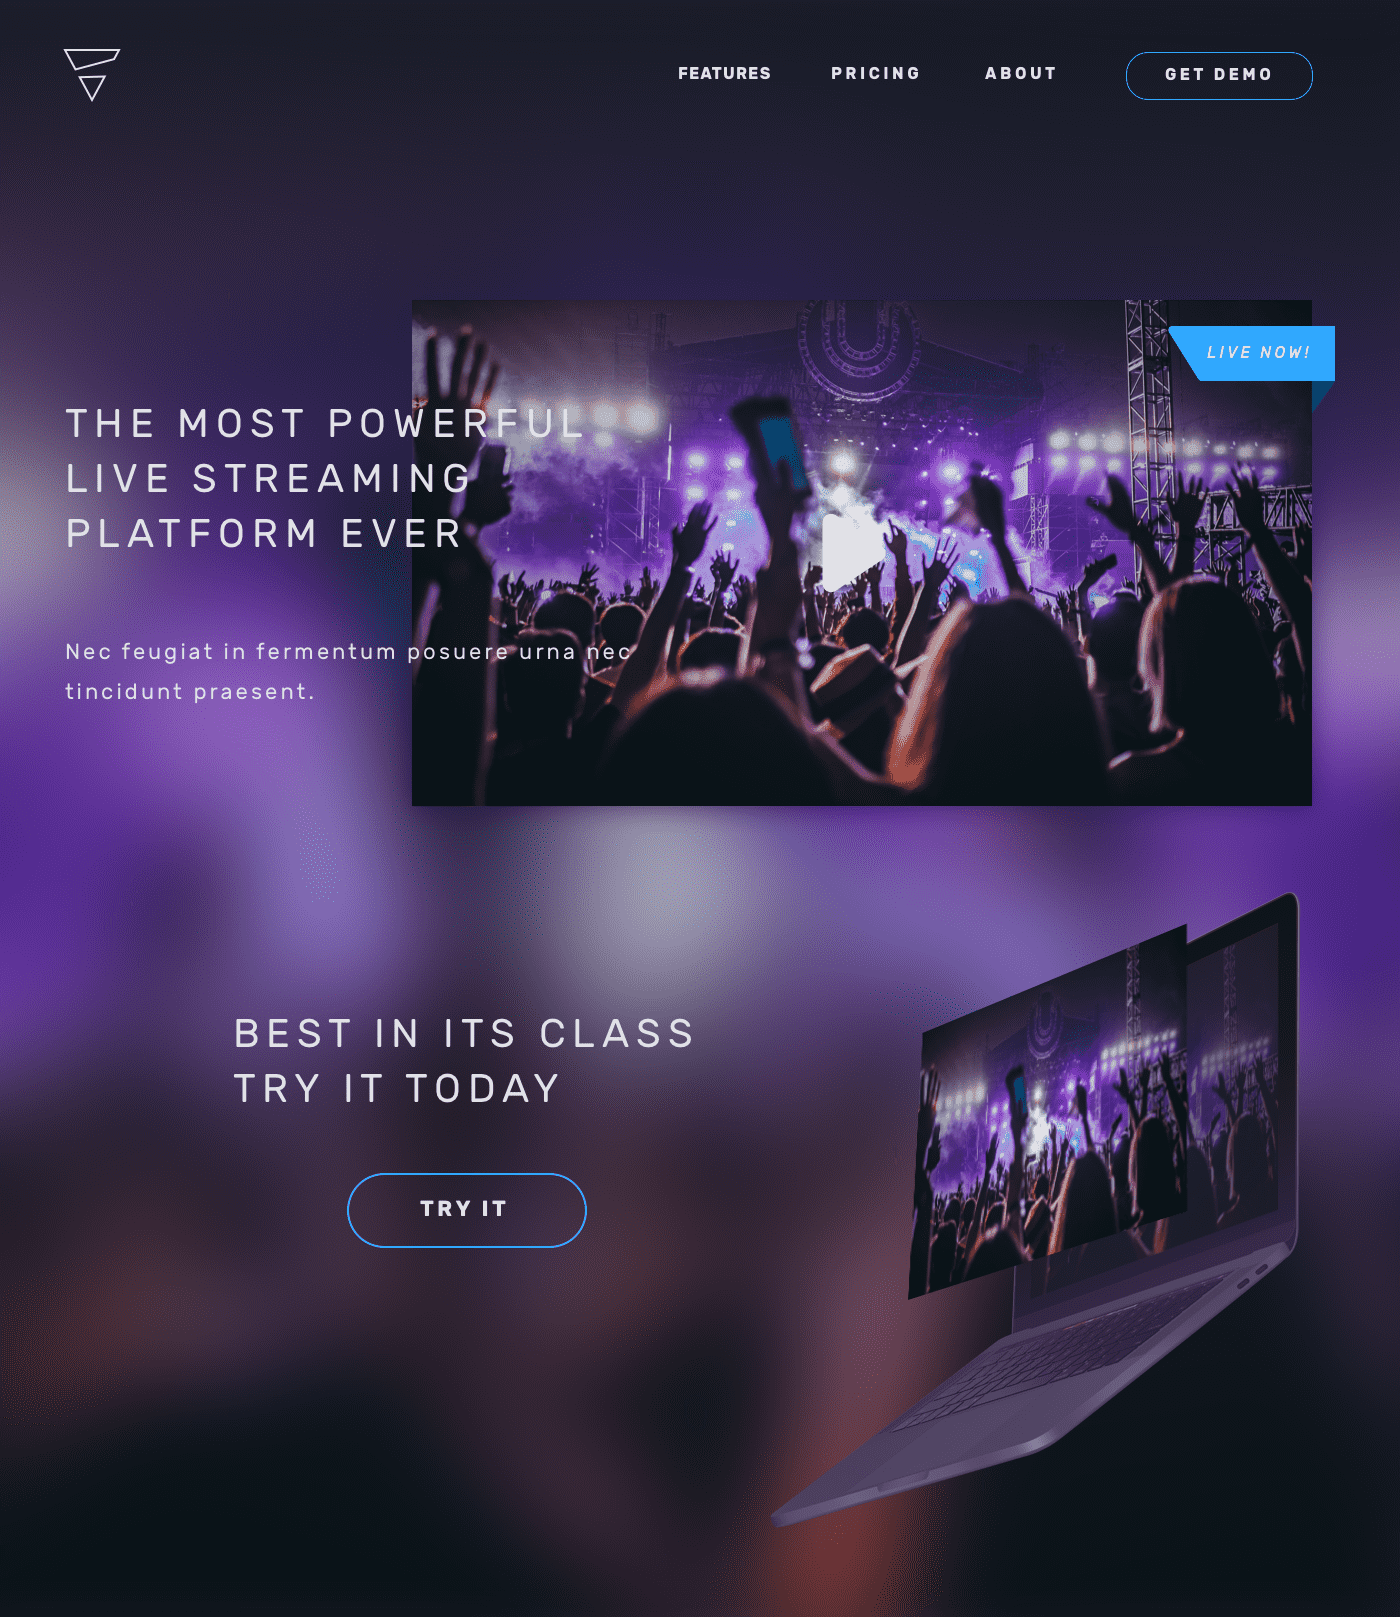
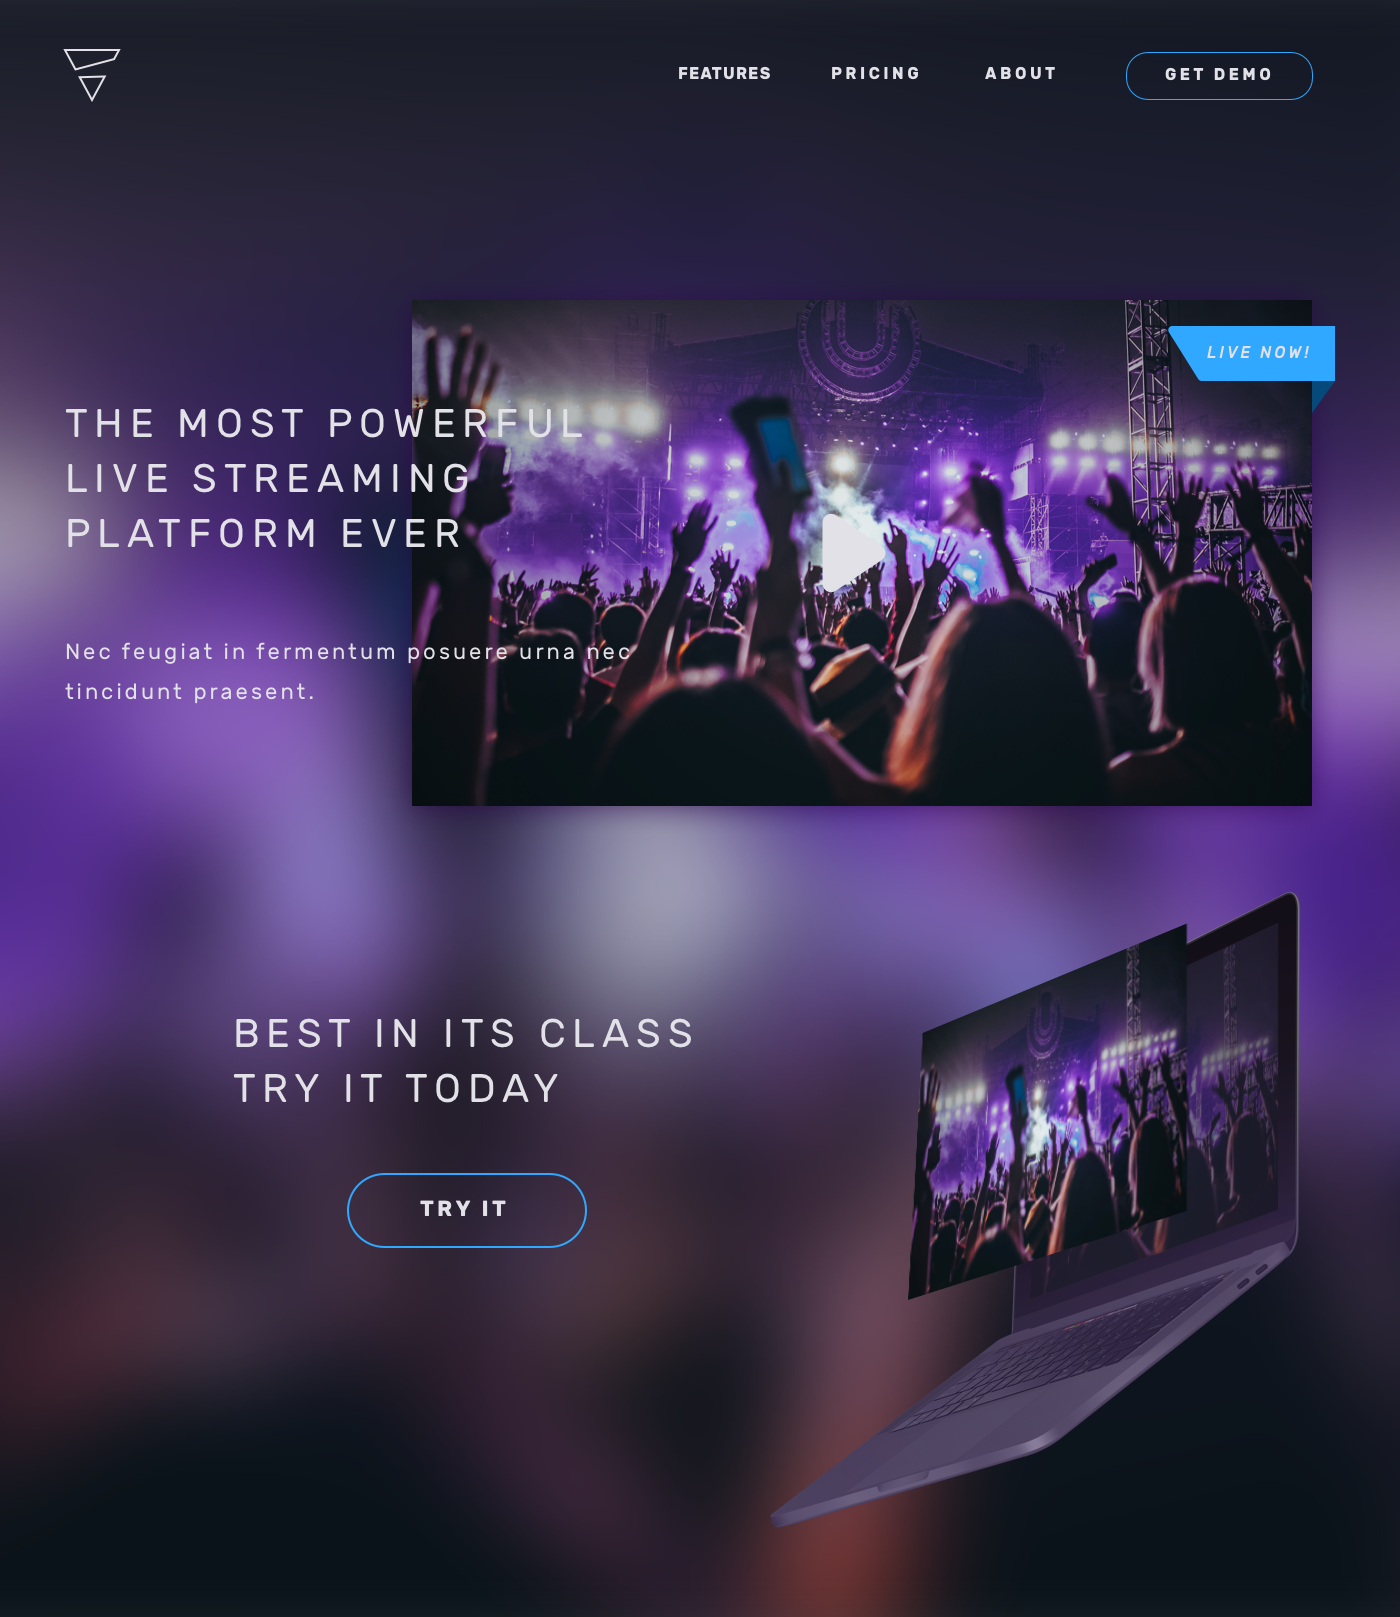
added responsive images, added media queries, and changed ocean parallax img to books

diff --git a/public/css/styles.css b/public/css/styles.css
@@ -1,1 +1,1 @@
-body{font-family:'Roboto', sans-serif;color:white;font-size:100%}.parallax-img{background-position:center;background-size:cover;background-attachment:fixed;background-repeat:no-repeat}nav{position:absolute;z-index:1;padding:1em}nav img{width:7em;vertical-align:middle}nav a{float:right;font-size:1.3em;margin-right:1.2vw;padding:0 .5vw;text-transform:uppercase}nav .animation{color:#fff;position:relative}nav .animation:before{content:"";position:absolute;width:100%;height:2px;bottom:10px;left:0;background-color:#fff;visibility:hidden;-webkit-transform:scaleX(0);transform:scaleX(0);-webkit-transition:all 0.275s ease-in-out 0s;transition:all 0.275s ease-in-out 0s}nav .animation:hover:before{visibility:visible;-webkit-transform:scaleX(1);transform:scaleX(1)}header.para1{background-image:url(../images/roads.jpg);height:100vh;width:100%;opacity:.95}header.para1 div.header-title{display:-webkit-box;display:-ms-flexbox;display:flex;-webkit-box-orient:vertical;-webkit-box-direction:normal;-ms-flex-direction:column;flex-direction:column;-webkit-box-pack:center;-ms-flex-pack:center;justify-content:center;-webkit-box-align:center;-ms-flex-align:center;align-items:center;padding-top:40vh;text-transform:uppercase}header.para1 div.header-title h3{font-size:1.2em;margin:0;letter-spacing:.5em;font-weight:bold}header.para1 div.header-title h1{font-size:4em;margin:0;letter-spacing:.95em;font-weight:bold}header.para1 div.header-title div.links{display:-webkit-box;display:-ms-flexbox;display:flex;font-size:3.5em;margin-top:.2em}header.para1 div.header-title div.links a{color:white;margin:0 .3em}header.para1 div.arrow{position:relative;font-size:2.8em;color:white;text-align:center;top:30vh;right:.4em}header.para1 div.arrow svg{position:absolute;-webkit-animation:bouncing 1.2s infinite ease-in-out;animation:bouncing 1.2s infinite ease-in-out}@-webkit-keyframes bouncing{0%{bottom:0}50%{bottom:20px}100%{bottom:0}}@keyframes bouncing{0%{bottom:0}50%{bottom:20px}100%{bottom:0}}main section#about{background-color:#fffaf2}main section#about p.flow-text{margin:0;font-size:1.4em;padding:3em 10em;text-align:center;color:#343144;letter-spacing:.21em;line-height:1.85em;text-transform:uppercase}main div.para2{background-image:url("../images/ocean.jpg");height:80vh}main section.website-designs{background-color:#82CFC7;display:-webkit-box;display:-ms-flexbox;display:flex;-ms-flex-wrap:wrap;flex-wrap:wrap;-ms-flex-pack:distribute;justify-content:space-around;-ms-flex-preferred-size:100%;flex-basis:100%}main section.website-designs h2.title{width:100%;text-align:center;-ms-flex-preferred-size:100%;flex-basis:100%;margin:0;padding-top:.2em;padding-bottom:.2em;font-size:3.8em}main section.website-designs div.design{margin:8vh 0}section.live-websites{background-color:#b8de8c;display:-webkit-box;display:-ms-flexbox;display:flex;-ms-flex-wrap:wrap;flex-wrap:wrap;-ms-flex-pack:distribute;justify-content:space-around;-ms-flex-preferred-size:100%;flex-basis:100%}section.live-websites h2.title{width:100%;text-align:center;-ms-flex-preferred-size:100%;flex-basis:100%;margin:0;padding-top:.2em;padding-bottom:.2em;font-size:3.8em}section.live-websites div.website{margin:8vh 0;text-align:center}section.live-websites div.website a{text-decoration:none;color:white;display:block;font-size:2em;border-bottom:4px solid white;border-left:4px solid white;border-right:4px solid white;padding:.2em}section.live-websites div.website a:hover{background-color:rgba(0,0,0,0.1)}section#contact{background-image:url("../images/computer.jpg");height:90vh;text-align:center}section#contact div.row{width:60vw;padding:10vh 0 10vh 0}section#contact input{color:white}section#contact textarea{color:white}section#contact .input-field input[type=text]:focus+label,section#contact .input-field input[type=email]:focus+label,section#contact .input-field textarea:focus+label{color:white}section#contact .input-field input[type=text]:focus,section#contact .input-field input[type=email]:focus,section#contact .input-field textarea:focus{border-bottom:1px solid white;-webkit-box-shadow:0 1px 0 0 white;box-shadow:0 1px 0 0 white}section#contact button{background-color:#4ba04e}section#contact button svg{font-size:1em;margin:0}section#contact h2{font-size:2.5em}section#contact a{color:white}section#contact svg{font-size:3em;margin:0 1vw}footer{background-color:#424242;color:rgba(255,255,255,0.8);padding:1.5em;font-size:.8em;text-align:center;display:block}@media only screen and (max-width: 992px){body{font-size:100%}body .parallax-img{background-position:center;background-size:cover;background-attachment:fixed;background-repeat:no-repeat}body div.sidenav-overlay{position:static}body nav{text-align:center}body nav a.sidenav-trigger{position:absolute;left:4vw;font-size:2em}body nav img{font-size:1em}body ul.sidenav li>div.user-view{height:20vh;position:relative}body ul.sidenav li>div.user-view img{width:100%}body ul.sidenav li>div.user-view div.bottom-info{display:-webkit-box;display:-ms-flexbox;display:flex;-webkit-box-orient:vertical;-webkit-box-direction:normal;-ms-flex-direction:column;flex-direction:column;position:absolute;bottom:0;line-height:1.7em}body ul.sidenav li>a{font-size:1.5em;z-index:100}body header.para1{text-align:center;font-size:.55em}body header.para1 div>div>a{font-size:1.6em}body header.para1 div.arrow{top:30vh}body main section#about p.flow-text{text-align:center;font-size:.9em;padding:2em 5em}body main section.website-designs,body main section.live-websites{font-size:.7em;padding:2em}body main section#contact div.row{width:80vw;padding:5vh 0 5vh 0}body main section#contact div.row button{padding:0 2em}}.fadeIn{-webkit-animation-name:fadeIn;animation-name:fadeIn}.animated{-webkit-animation-duration:1s;-webkit-animation-fill-mode:both;animation-duration:1s;animation-fill-mode:both}@-webkit-keyframes fadeIn{0%{opacity:0}to{opacity:1}}@keyframes fadeIn{0%{opacity:0}to{opacity:1}}.fa,.fab,.fal,.far,.fas{-moz-osx-font-smoothing:grayscale;-webkit-font-smoothing:antialiased;display:inline-block;font-style:normal;font-variant:normal;text-rendering:auto;line-height:1}.fa-user:before{content:"\f007"}@font-face{font-family:"Font Awesome 5 Brands";font-style:normal;font-weight:normal;src:url(../webfonts/fa-brands-400.eot);src:url(../webfonts/fa-brands-400.eot?#iefix) format("embedded-opentype"),url(../webfonts/fa-brands-400.woff2) format("woff2"),url(../webfonts/fa-brands-400.woff) format("woff"),url(../webfonts/fa-brands-400.ttf) format("truetype"),url(../webfonts/fa-brands-400.svg#fontawesome) format("svg")}.fab{font-family:"Font Awesome 5 Brands"}@font-face{font-family:"Font Awesome 5 Free";font-style:normal;font-weight:400;src:url(../webfonts/fa-regular-400.eot);src:url(../webfonts/fa-regular-400.eot?#iefix) format("embedded-opentype"),url(../webfonts/fa-regular-400.woff2) format("woff2"),url(../webfonts/fa-regular-400.woff) format("woff"),url(../webfonts/fa-regular-400.ttf) format("truetype"),url(../webfonts/fa-regular-400.svg#fontawesome) format("svg")}.far{font-weight:400}@font-face{font-family:"Font Awesome 5 Free";font-style:normal;font-weight:900;src:url(../webfonts/fa-solid-900.eot);src:url(../webfonts/fa-solid-900.eot?#iefix) format("embedded-opentype"),url(../webfonts/fa-solid-900.woff2) format("woff2"),url(../webfonts/fa-solid-900.woff) format("woff"),url(../webfonts/fa-solid-900.ttf) format("truetype"),url(../webfonts/fa-solid-900.svg#fontawesome) format("svg")}.fa,.far,.fas{font-family:"Font Awesome 5 Free"}.fa,.fas{font-weight:900}
+body{font-family:'Roboto', sans-serif;color:white;font-size:100%}.parallax-img{background-position:center;background-size:cover;background-attachment:fixed;background-repeat:no-repeat}nav{position:absolute;z-index:1;padding:1em}nav img{width:7em;vertical-align:middle}nav a{float:right;font-size:1.3em;margin-right:1.2vw;padding:0 .5vw;text-transform:uppercase}nav .animation{color:#fff;position:relative}nav .animation:before{content:"";position:absolute;width:100%;height:2px;bottom:10px;left:0;background-color:#fff;visibility:hidden;-webkit-transform:scaleX(0);transform:scaleX(0);-webkit-transition:all 0.275s ease-in-out 0s;transition:all 0.275s ease-in-out 0s}nav .animation:hover:before{visibility:visible;-webkit-transform:scaleX(1);transform:scaleX(1)}header.para1{background-image:url(../images/roads-small.jpg);height:100vh;width:100%}header.para1 div.header-title{display:-webkit-box;display:-ms-flexbox;display:flex;-webkit-box-orient:vertical;-webkit-box-direction:normal;-ms-flex-direction:column;flex-direction:column;-webkit-box-pack:center;-ms-flex-pack:center;justify-content:center;-webkit-box-align:center;-ms-flex-align:center;align-items:center;padding-top:40vh;text-transform:uppercase}header.para1 div.header-title h3{font-size:1.2em;margin:0;letter-spacing:.5em;font-weight:bold}header.para1 div.header-title h1{font-size:4em;margin:0;letter-spacing:.95em;font-weight:bold}header.para1 div.header-title div.links{display:-webkit-box;display:-ms-flexbox;display:flex;font-size:3.5em;margin-top:.2em}header.para1 div.header-title div.links a{color:white;margin:0 .3em}header.para1 div.arrow{position:relative;font-size:2.8em;color:white;text-align:center;top:30vh;right:.4em}header.para1 div.arrow svg{position:absolute;-webkit-animation:bouncing 1.2s infinite ease-in-out;animation:bouncing 1.2s infinite ease-in-out}@-webkit-keyframes bouncing{0%{bottom:0}50%{bottom:20px}100%{bottom:0}}@keyframes bouncing{0%{bottom:0}50%{bottom:20px}100%{bottom:0}}main section#about{background-color:#fffaf2}main section#about p.flow-text{margin:0;font-size:1.4em;padding:3em 10em;text-align:center;color:#343144;letter-spacing:.21em;line-height:1.85em;text-transform:uppercase}main div.para2{background-image:url("../images/books-large.jpg");height:80vh}main section.website-designs{background-color:#313131;display:-webkit-box;display:-ms-flexbox;display:flex;-ms-flex-wrap:wrap;flex-wrap:wrap;-ms-flex-pack:distribute;justify-content:space-around;-ms-flex-preferred-size:100%;flex-basis:100%}main section.website-designs h2.title{width:100%;text-align:center;-ms-flex-preferred-size:100%;flex-basis:100%;margin:0;padding-top:.2em;padding-bottom:.2em;font-size:3.8em}main section.website-designs div.design{margin:8vh 0}hr{border-color:#ffffff59;margin:0;background-color:#313131}section.live-websites{background-color:#313131;display:-webkit-box;display:-ms-flexbox;display:flex;-ms-flex-wrap:wrap;flex-wrap:wrap;-ms-flex-pack:distribute;justify-content:space-around;-ms-flex-preferred-size:100%;flex-basis:100%}section.live-websites h2.title{width:100%;text-align:center;-ms-flex-preferred-size:100%;flex-basis:100%;margin:0;padding-top:.2em;padding-bottom:.2em;font-size:3.8em}section.live-websites div.website{margin:8vh 0;text-align:center}section.live-websites div.website a{text-decoration:none;color:white;display:block;font-size:2em;border-bottom:4px solid white;border-left:4px solid white;border-right:4px solid white;padding:.2em}section.live-websites div.website a:hover{background-color:rgba(0,0,0,0.35)}section#contact{background-image:url("../images/computer-large.jpg");height:90vh;text-align:center}section#contact div.row{width:60vw;padding:10vh 0 10vh 0}section#contact input{color:white}section#contact textarea{color:white}section#contact .input-field input[type=text]:focus+label,section#contact .input-field input[type=email]:focus+label,section#contact .input-field textarea:focus+label{color:white}section#contact .input-field input[type=text]:focus,section#contact .input-field input[type=email]:focus,section#contact .input-field textarea:focus{border-bottom:1px solid white;-webkit-box-shadow:0 1px 0 0 white;box-shadow:0 1px 0 0 white}section#contact button{background-color:#4ba04e}section#contact button svg{font-size:1em;margin:0}section#contact h2{font-size:2.5em}section#contact a{color:white}section#contact svg{font-size:3em;margin:0 1vw}footer{background-color:#424242;color:rgba(255,255,255,0.8);padding:1.5em;font-size:.8em;text-align:center;display:block}@media screen and (min-width: 0px){header.para1{background-image:url(../images/roads-small.jpg)}section#contact{background-image:url("../images/computer-small.jpg")}div.para2{background-image:url("../images/books-small.jpg")}}@media screen and (min-width: 400px){header.para1{background-image:url(../images/roads-medium.jpg)}section#contact{background-image:url("../images/computer-medium.jpg")}div.para2{background-image:url("../images/books-medium.jpg")}}@media screen and (min-width: 1000px){header.para1{background-image:url(../images/roads-large.jpg)}section#contact{background-image:url("../images/computer-large.jpg")}div.para2{background-image:url("../images/books-large.jpg")}}@media only screen and (max-width: 992px){body{font-size:100%}body .parallax-img{background-position:center;background-size:cover;background-attachment:fixed;background-repeat:no-repeat}body div.sidenav-overlay{position:static}body nav{text-align:center}body nav a.sidenav-trigger{position:absolute;left:4vw;font-size:2em}body nav img{font-size:1em}body ul.sidenav li>div.user-view{height:20vh;position:relative}body ul.sidenav li>div.user-view img{width:100%}body ul.sidenav li>div.user-view div.bottom-info{display:-webkit-box;display:-ms-flexbox;display:flex;-webkit-box-orient:vertical;-webkit-box-direction:normal;-ms-flex-direction:column;flex-direction:column;position:absolute;bottom:0;line-height:1.7em}body ul.sidenav li>a{font-size:1.5em;z-index:100}body header.para1{text-align:center;font-size:.55em}body header.para1 div>div>a{font-size:1.6em}body header.para1 div.arrow{top:30vh}body main section#about p.flow-text{text-align:center;font-size:.9em;padding:2em 5em}body main section.website-designs,body main section.live-websites{font-size:.7em;padding:2em}body main section#contact div.row{width:80vw;padding:5vh 0 5vh 0}body main section#contact div.row button{padding:0 2em}}.fadeIn{-webkit-animation-name:fadeIn;animation-name:fadeIn}.animated{-webkit-animation-duration:1s;-webkit-animation-fill-mode:both;animation-duration:1s;animation-fill-mode:both}@-webkit-keyframes fadeIn{0%{opacity:0}to{opacity:1}}@keyframes fadeIn{0%{opacity:0}to{opacity:1}}.fa,.fab,.fal,.far,.fas{-moz-osx-font-smoothing:grayscale;-webkit-font-smoothing:antialiased;display:inline-block;font-style:normal;font-variant:normal;text-rendering:auto;line-height:1}.fa-user:before{content:"\f007"}@font-face{font-family:"Font Awesome 5 Brands";font-style:normal;font-weight:normal;src:url(../webfonts/fa-brands-400.eot);src:url(../webfonts/fa-brands-400.eot?#iefix) format("embedded-opentype"),url(../webfonts/fa-brands-400.woff2) format("woff2"),url(../webfonts/fa-brands-400.woff) format("woff"),url(../webfonts/fa-brands-400.ttf) format("truetype"),url(../webfonts/fa-brands-400.svg#fontawesome) format("svg")}.fab{font-family:"Font Awesome 5 Brands"}@font-face{font-family:"Font Awesome 5 Free";font-style:normal;font-weight:400;src:url(../webfonts/fa-regular-400.eot);src:url(../webfonts/fa-regular-400.eot?#iefix) format("embedded-opentype"),url(../webfonts/fa-regular-400.woff2) format("woff2"),url(../webfonts/fa-regular-400.woff) format("woff"),url(../webfonts/fa-regular-400.ttf) format("truetype"),url(../webfonts/fa-regular-400.svg#fontawesome) format("svg")}.far{font-weight:400}@font-face{font-family:"Font Awesome 5 Free";font-style:normal;font-weight:900;src:url(../webfonts/fa-solid-900.eot);src:url(../webfonts/fa-solid-900.eot?#iefix) format("embedded-opentype"),url(../webfonts/fa-solid-900.woff2) format("woff2"),url(../webfonts/fa-solid-900.woff) format("woff"),url(../webfonts/fa-solid-900.ttf) format("truetype"),url(../webfonts/fa-solid-900.svg#fontawesome) format("svg")}.fa,.far,.fas{font-family:"Font Awesome 5 Free"}.fa,.fas{font-weight:900}

diff --git a/public/sass/styles.scss b/public/sass/styles.scss
@@ -55,10 +55,9 @@ nav {
 }
 
 header.para1 {
-  background-image: url(../images/roads.jpg);
+  background-image: url(../images/roads-small.jpg);
   height: 100vh;
   width: 100%;
-  opacity: .95;
   div.header-title {
     display: flex;
     flex-direction: column;
@@ -123,12 +122,12 @@ main {
   }
 
   div.para2 {
-    background-image: url('../images/ocean.jpg');
+    background-image: url('../images/books-large.jpg');
     height: 80vh;
   }
 
   section.website-designs {
-    background-color: #82CFC7;
+    background-color: #313131;
     display: flex;
     flex-wrap: wrap;
     justify-content: space-around;
@@ -149,8 +148,14 @@ main {
   }
 }
 
+hr {
+  border-color: #ffffff59;
+  margin: 0;
+  background-color: #313131;
+}
+
 section.live-websites {
-  background-color: #b8de8c;
+  background-color: #313131;
   display: flex;
   flex-wrap: wrap;
   justify-content: space-around;
@@ -177,14 +182,14 @@ section.live-websites {
       border-right: 4px solid white;
       padding: .2em;
       &:hover {
-        background-color: rgba(0, 0, 0, 0.1);
+        background-color: rgba(0, 0, 0, 0.35);
       }
     }
   }
 }
 
 section#contact {
-  background-image: url('../images/computer.jpg');
+  background-image: url('../images/computer-large.jpg');
   height: 90vh;
   text-align: center;
   div.row {
@@ -234,6 +239,43 @@ footer {
   font-size: .8em;
   text-align: center;
   display: block;
+}
+
+/* Media Queries */
+@media screen and (min-width: 0px) {
+  header.para1 {
+    background-image: url(../images/roads-small.jpg);
+  }
+  section#contact {
+    background-image: url('../images/computer-small.jpg');
+  }
+  div.para2 {
+    background-image: url('../images/books-small.jpg');
+  }
+}
+
+@media screen and (min-width: 400px) {
+  header.para1 {
+    background-image: url(../images/roads-medium.jpg);
+  }
+  section#contact {
+    background-image: url('../images/computer-medium.jpg');
+  }
+  div.para2 {
+    background-image: url('../images/books-medium.jpg');
+  }
+}
+
+@media screen and (min-width: 1000px) {
+  header.para1 {
+    background-image: url(../images/roads-large.jpg);
+  }
+  section#contact {
+    background-image: url('../images/computer-large.jpg');
+  }
+  div.para2 {
+    background-image: url('../images/books-large.jpg');
+  }
 }
 
 @media only screen and (max-width: 992px) {

diff --git a/gruntfile.js b/gruntfile.js
@@ -6,7 +6,7 @@ grunt.initConfig({
   imagemin: {
     options: {
       use: [
-        pngquant({ quality: '70' }),
+        pngquant({ quality: '80' }),
         mozjpeg({ quality: '70' }),
       ],
     },
